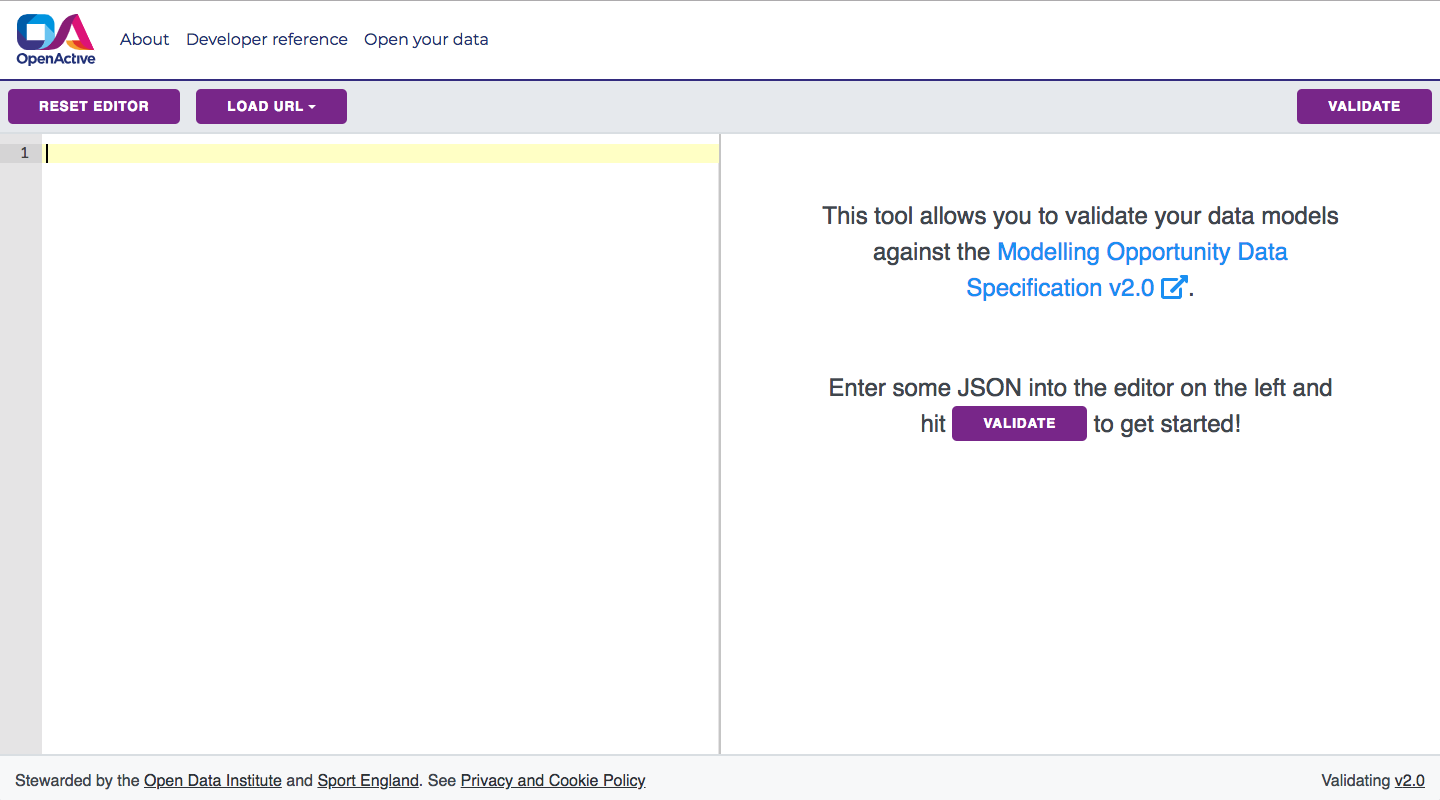
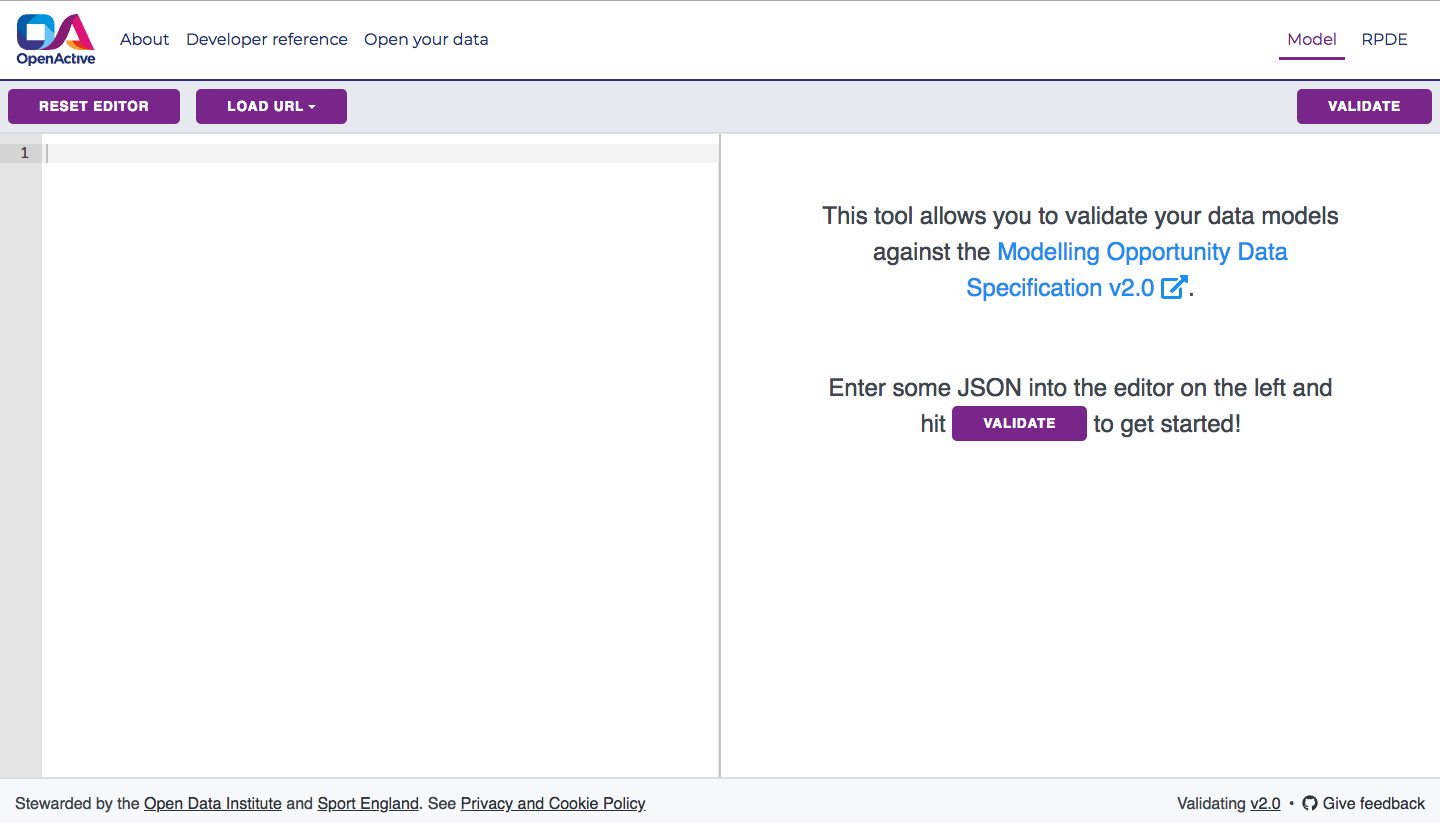
Updated URLs and screenshot

diff --git a/app/content/validation.html b/app/content/validation.html
@@ -10,7 +10,7 @@ body {
   <div class="jumbotron">
     <div class="container">
       <h1 class="display-3">Validating your data</h1>
-      <p>OpenActive have developed a <a href="https://data-model-validator.herokuapp.com/">validation tool</a> to allow you to check that your JSON data feeds conform to the latest specification. Read on to see how to leverage this tool to assess your conformance.</p>
+      <p>OpenActive have developed a <a href="https://validator.openactive.io/">validation tool</a> to allow you to check that your JSON data feeds conform to the latest specification. Read on to see how to leverage this tool to assess your conformance.</p>
     </div>
   </div>
 
@@ -18,7 +18,7 @@ body {
     <div class="row">
       <div class="col">
         <p>
-          Navigate to the validation tool at <a href="https://data-model-validator.herokuapp.com/" target="_blank" class="link">https://data-model-validator.herokuapp.com/</a>.
+          Navigate to the validation tool at <a href="https://validator.openactive.io/" target="_blank" class="link">https://validator.openactive.io/</a>.
         </p>
         <h3>
           The validation console
